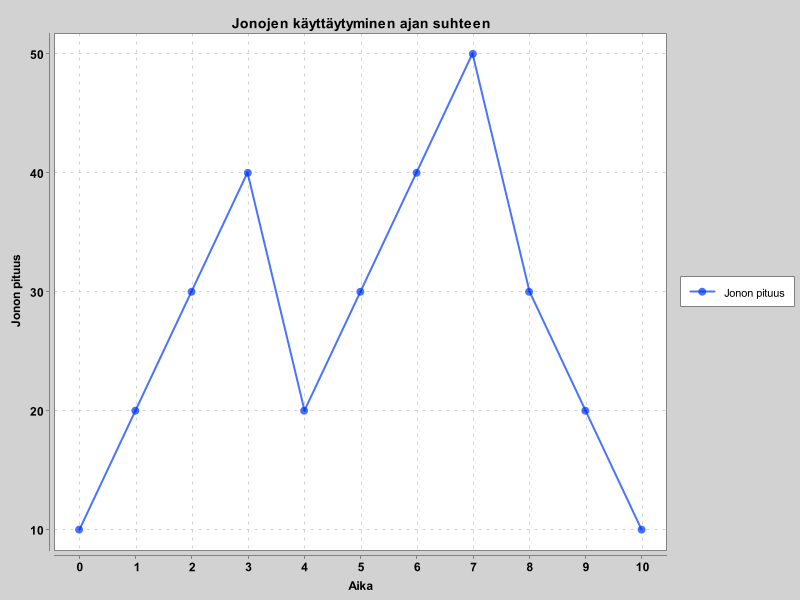
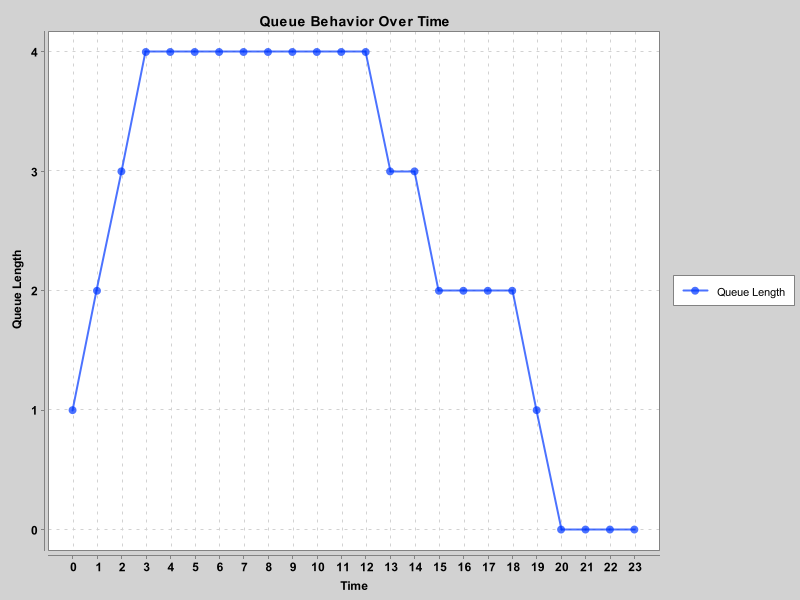
simulationresults graph

diff --git a/src/main/java/simu/analysis/SimulationResults.java b/src/main/java/simu/analysis/SimulationResults.java
@@ -1,16 +1,19 @@
 package simu.analysis;
 
+import java.io.BufferedReader;
 import java.io.BufferedWriter;
+import java.io.FileReader;
 import java.io.FileWriter;
 import java.io.IOException;
+import java.util.ArrayList;
 import java.util.List;
 import org.knowm.xchart.*;
 
 public class SimulationResults {
 
     public static void main(String[] args) {
-        // Test the graphing functionality with dummy data
-        List<Integer> queueLengths = List.of(10, 20, 30, 40, 20, 30, 40, 50, 30, 20, 10);
+        // Example: Read simulation results from a file and create a graph
+        List<Integer> queueLengths = readResultsFromFile("queue_results.txt");
         saveResultsAndCreateGraph(queueLengths);
     }
 
@@ -22,37 +25,55 @@ public class SimulationResults {
     private static void saveResultsToFile(List<Integer> data) {
         try (BufferedWriter writer = new BufferedWriter(new FileWriter("results.txt"))) {
             for (int i = 0; i < data.size(); i++) {
-                writer.write("Aika " + i + ": Jonon pituus = " + data.get(i) + "\n");
+                writer.write("Time " + i + ": Queue length = " + data.get(i) + "\n");
             }
-            System.out.println("Tulokset tallennettu tiedostoon results.txt");
+            System.out.println("Results saved to file results.txt");
         } catch (IOException e) {
-            System.err.println("Virhe tallennettaessa tuloksia: " + e.getMessage());
+            System.err.println("Error saving results: " + e.getMessage());
         }
     }
 
     private static void createGraph(List<Integer> data) {
-        // Valmistellaan data XChart-kirjastoa varten
-        List<Integer> xData = new java.util.ArrayList<>();
+        // Prepare data for XChart
+        List<Integer> xData = new ArrayList<>();
         for (int i = 0; i < data.size(); i++) {
             xData.add(i);
         }
 
-        // Luodaan viivakaavio (Line Chart)
+        // Create line chart
         XYChart chart = new XYChartBuilder().width(800).height(600)
-                .title("Jonojen käyttäytyminen ajan suhteen")
-                .xAxisTitle("Aika")
-                .yAxisTitle("Jonon pituus")
+                .title("Queue Behavior Over Time")
+                .xAxisTitle("Time")
+                .yAxisTitle("Queue Length")
                 .build();
 
-        // Lisätään data kaavioon
-        chart.addSeries("Jonon pituus", xData, data);
+        // Add data to the chart
+        chart.addSeries("Queue Length", xData, data);
 
-        // Tallennetaan kuva tiedostoon
+        // Save graph to a file
         try {
             BitmapEncoder.saveBitmap(chart, "queue_behavior", BitmapEncoder.BitmapFormat.PNG);
-            System.out.println("Kaavio tallennettu tiedostoon queue_behavior.png");
+            System.out.println("Chart saved to file queue_behavior.png");
         } catch (IOException e) {
-            System.err.println("Virhe tallennettaessa kaaviota: " + e.getMessage());
+            System.err.println("Error saving chart: " + e.getMessage());
         }
+    }
+
+    private static List<Integer> readResultsFromFile(String filename) {
+        List<Integer> data = new ArrayList<>();
+        try (BufferedReader reader = new BufferedReader(new FileReader(filename))) {
+            String line;
+            while ((line = reader.readLine()) != null) {
+                // Assuming the format is "Time {i}: Queue length = {length}"
+                String[] parts = line.split("=");
+                if (parts.length == 2) {
+                    data.add(Integer.parseInt(parts[1].trim()));
+                }
+            }
+            System.out.println("Results read from file " + filename);
+        } catch (IOException | NumberFormatException e) {
+            System.err.println("Error reading file: " + e.getMessage());
+        }
+        return data;
     }
 }

diff --git a/src/main/java/simu/model/MyEngine.java b/src/main/java/simu/model/MyEngine.java
@@ -1,21 +1,21 @@
-/**
- * Package containing simulation models and related components.
- */
 package simu.model;
 
-import simu.framework.ArrivalTimeGenerator;
+import simu.framework.*;
+import simu.analysis.SimulationResults;
 import db.connections.datasource.MariaDbConnection;
-
 import controller.IControllerMtoV;
 import eduni.distributions.Negexp;
 import eduni.distributions.Normal;
-import eduni.distributions.Distributions;
-import simu.framework.*;
+import eduni.distributions.ContinuousGenerator;
 
+import java.io.BufferedWriter;
+import java.io.FileWriter;
+import java.io.IOException;
 import java.sql.Connection;
 import java.sql.PreparedStatement;
 import java.sql.SQLException;
 import java.sql.Timestamp;
+import java.text.DecimalFormat;
 import java.util.ArrayList;
 import java.util.List;
 
@@ -31,6 +31,7 @@ public class MyEngine extends Engine {
 	private int maxCustomers;
 	private List<Customer> customers = new ArrayList<>();
 	private List<Event> events;
+	private List<Integer> queueLengths = new ArrayList<>(); // To collect queue lengths over time
 
 	/**
 	 * Constructs a new simulation engine.
@@ -48,7 +49,7 @@ public class MyEngine extends Engine {
 		servicePoints[1] = new ServicePoint(new Normal(8, 3), eventList, EventType.DELI_COUNTER, "Deli Counter");
 		servicePoints[2] = new ServicePoint(new Normal(3, 1), eventList, EventType.VEGETABLE_SECTION, "Vegetable Section");
 		servicePoints[3] = new ServicePoint(new Normal(4, 2), eventList, EventType.CASHIER, "Cashier");
-		arrivalProcess = new ArrivalProcess(new Negexp(10, 5), eventList, EventType.ARRIVAL, maxCustomers);
+		arrivalProcess = new ArrivalProcess(new Negexp(10), eventList, EventType.ARRIVAL, maxCustomers);
 
 		events = new ArrayList<>();
 	}
@@ -94,8 +95,10 @@ public class MyEngine extends Engine {
 	 */
 	@Override
 	public void initialization() {
+		ArrivalTimeGenerator generator = new ArrivalTimeGenerator(new Negexp(10)); // Pass a Negexp instance
+
 		for (int i = 1; i <= maxCustomers; i++) {
-			double arrivalTime = Clock.getInstance().getTime() + new ArrivalTimeGenerator(new Distributions()).generateArrivalTime(i);
+			double arrivalTime = Clock.getInstance().getTime() + generator.generateArrivalTime(i);
 			Event arrivalEvent = new Event(EventType.ARRIVAL, arrivalTime);
 			eventList.add(arrivalEvent);
 			events.add(arrivalEvent);
@@ -171,6 +174,13 @@ public class MyEngine extends Engine {
 				break;
 		}
 
+		// Update queue lengths (sum of all queues)
+		int totalQueueLength = 0;
+		for (ServicePoint sp : servicePoints) {
+			totalQueueLength += sp.getQueueLength();
+		}
+		queueLengths.add(totalQueueLength);
+
 		for (ServicePoint sp : servicePoints) {
 			if (sp.isOnQueue() && !sp.isReserved()) {
 				sp.beginService();
@@ -216,7 +226,29 @@ public class MyEngine extends Engine {
 		for (Customer customer : customers) {
 			Trace.out(Trace.Level.INFO, customer.getSummary());
 		}
+
+		// Save queue lengths to a file
+		saveQueueLengthsToFile();
+
+		// Generate a graph using SimulationResults
+		SimulationResults.saveResultsAndCreateGraph(queueLengths);
 	}
+
+	/**
+	 * Saves the collected queue lengths to a file for visualization.
+	 */
+	private void saveQueueLengthsToFile() {
+		try (BufferedWriter writer = new BufferedWriter(new FileWriter("queue_results.txt"))) {
+			DecimalFormat df = new DecimalFormat("#0.00");
+			for (int i = 0; i < queueLengths.size(); i++) {
+				writer.write("Time " + i + ": Queue length = " + queueLengths.get(i) + "\n");
+			}
+			System.out.println("Results saved to file queue_results.txt");
+		} catch (IOException e) {
+			System.err.println("Error saving results: " + e.getMessage());
+		}
+	}
+
 
 	/**
 	 * Sets the arrival pattern of customers in the simulation.

diff --git a/src/main/java/simu/framework/ArrivalTimeGenerator.java b/src/main/java/simu/framework/ArrivalTimeGenerator.java
@@ -1,30 +1,29 @@
 package simu.framework;
 
-import eduni.distributions.Distributions;
+import eduni.distributions.ContinuousGenerator;
 
 /**
- * The ArrivalTimeGenerator class is responsible for generating arrival times
- * based on an exponential distribution.
+ * Generates arrival times for simulation events.
  */
 public class ArrivalTimeGenerator {
-    private Distributions distributions;
+    private final ContinuousGenerator generator;
 
     /**
-     * Constructs an ArrivalTimeGenerator object.
+     * Constructs an ArrivalTimeGenerator with a given continuous generator.
      *
-     * @param distributions The distribution utility used to generate arrival times.
+     * @param generator The continuous generator to use for generating arrival times.
      */
-    public ArrivalTimeGenerator(Distributions distributions) {
-        this.distributions = distributions;
+    public ArrivalTimeGenerator(ContinuousGenerator generator) {
+        this.generator = generator;
     }
 
     /**
-     * Generates the next arrival time using an exponential distribution with the specified lambda.
+     * Generates the next arrival time based on the given index.
      *
-     * @param lambda The rate parameter (lambda) for the exponential distribution.
-     * @return The generated arrival time.
+     * @param index The index of the current event (not used here).
+     * @return The next arrival time.
      */
-    public double generateArrivalTime(double lambda) {
-        return distributions.negexp(1.0 / lambda);
+    public double generateArrivalTime(int index) {
+        return generator.sample();
     }
 }

diff --git a/src/main/java/simu/model/ServicePoint.java b/src/main/java/simu/model/ServicePoint.java
@@ -1,6 +1,3 @@
-/**
- * Package containing simulation models and related components.
- */
 package simu.model;
 
 import db.connections.dao.QueueHistoryDao;
